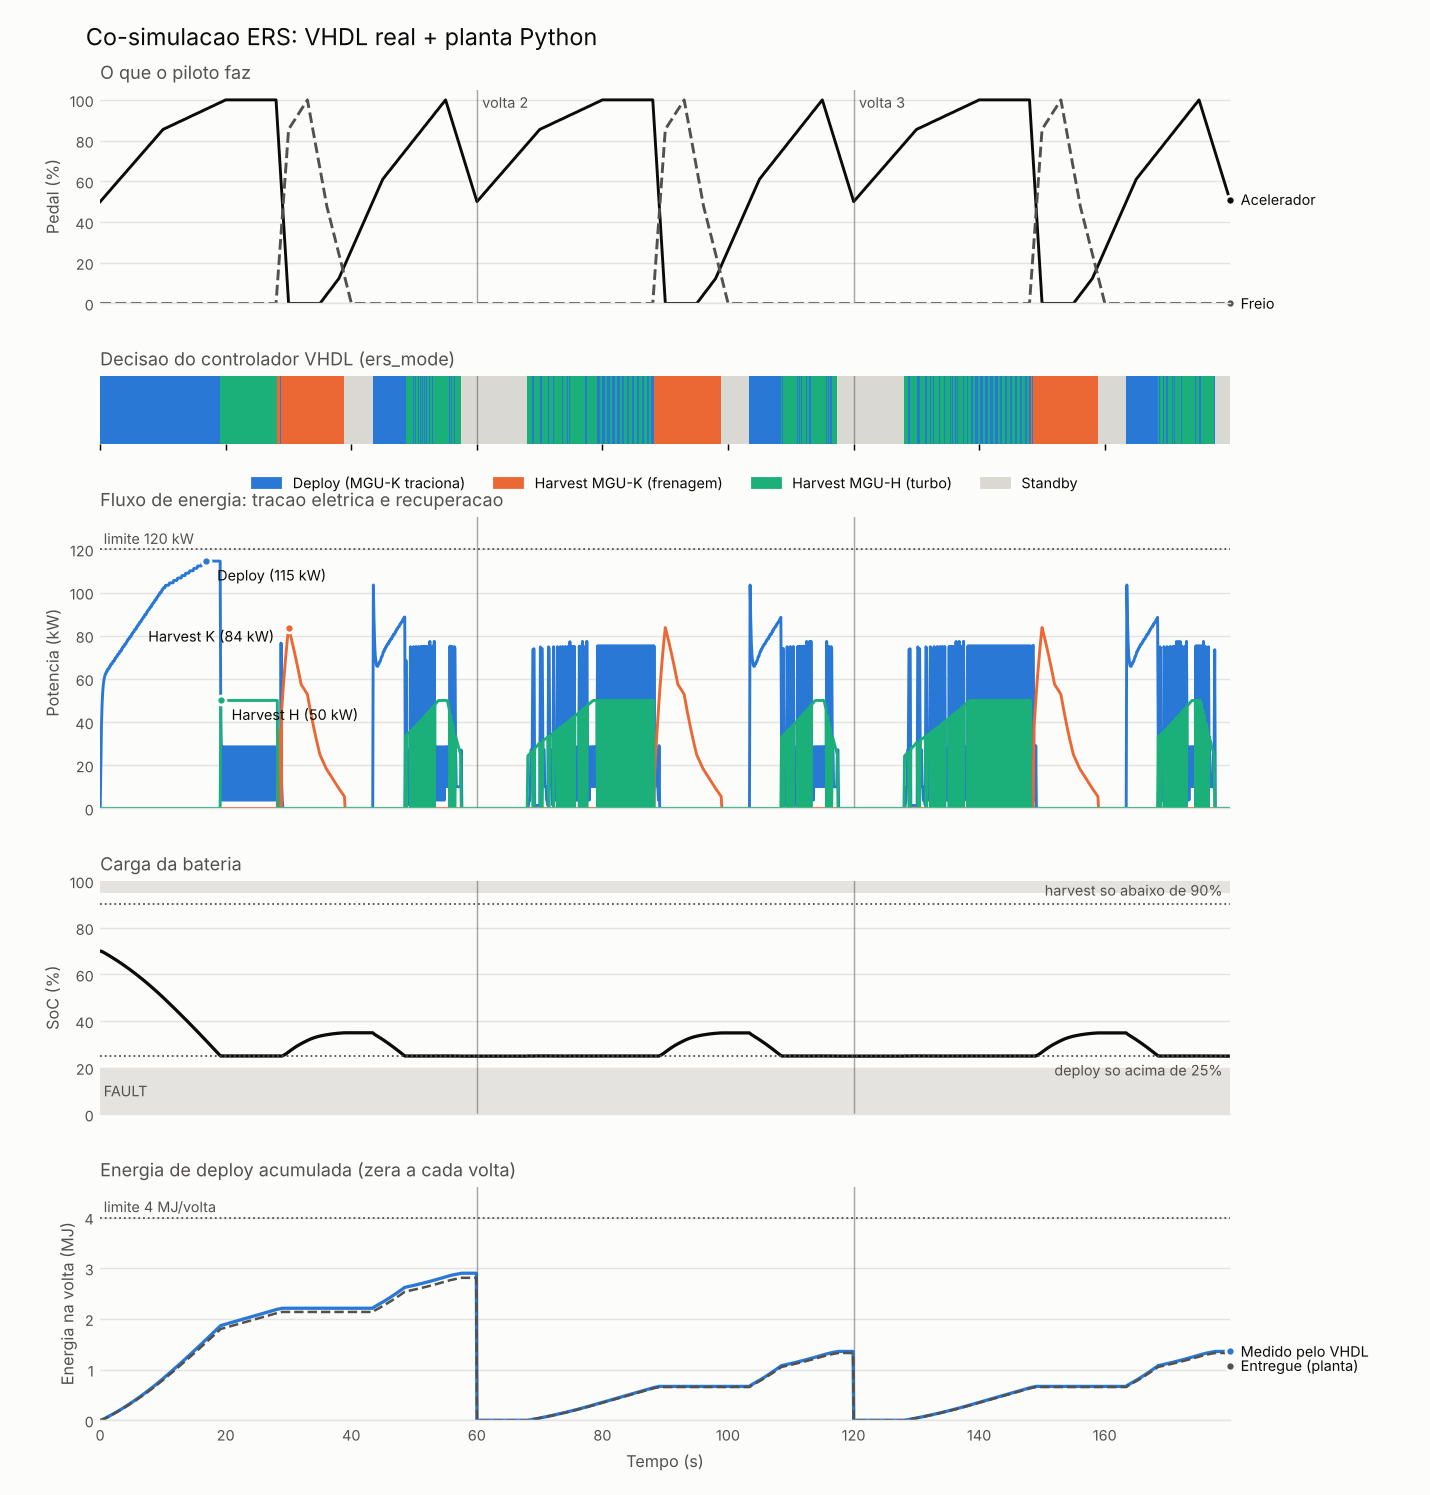
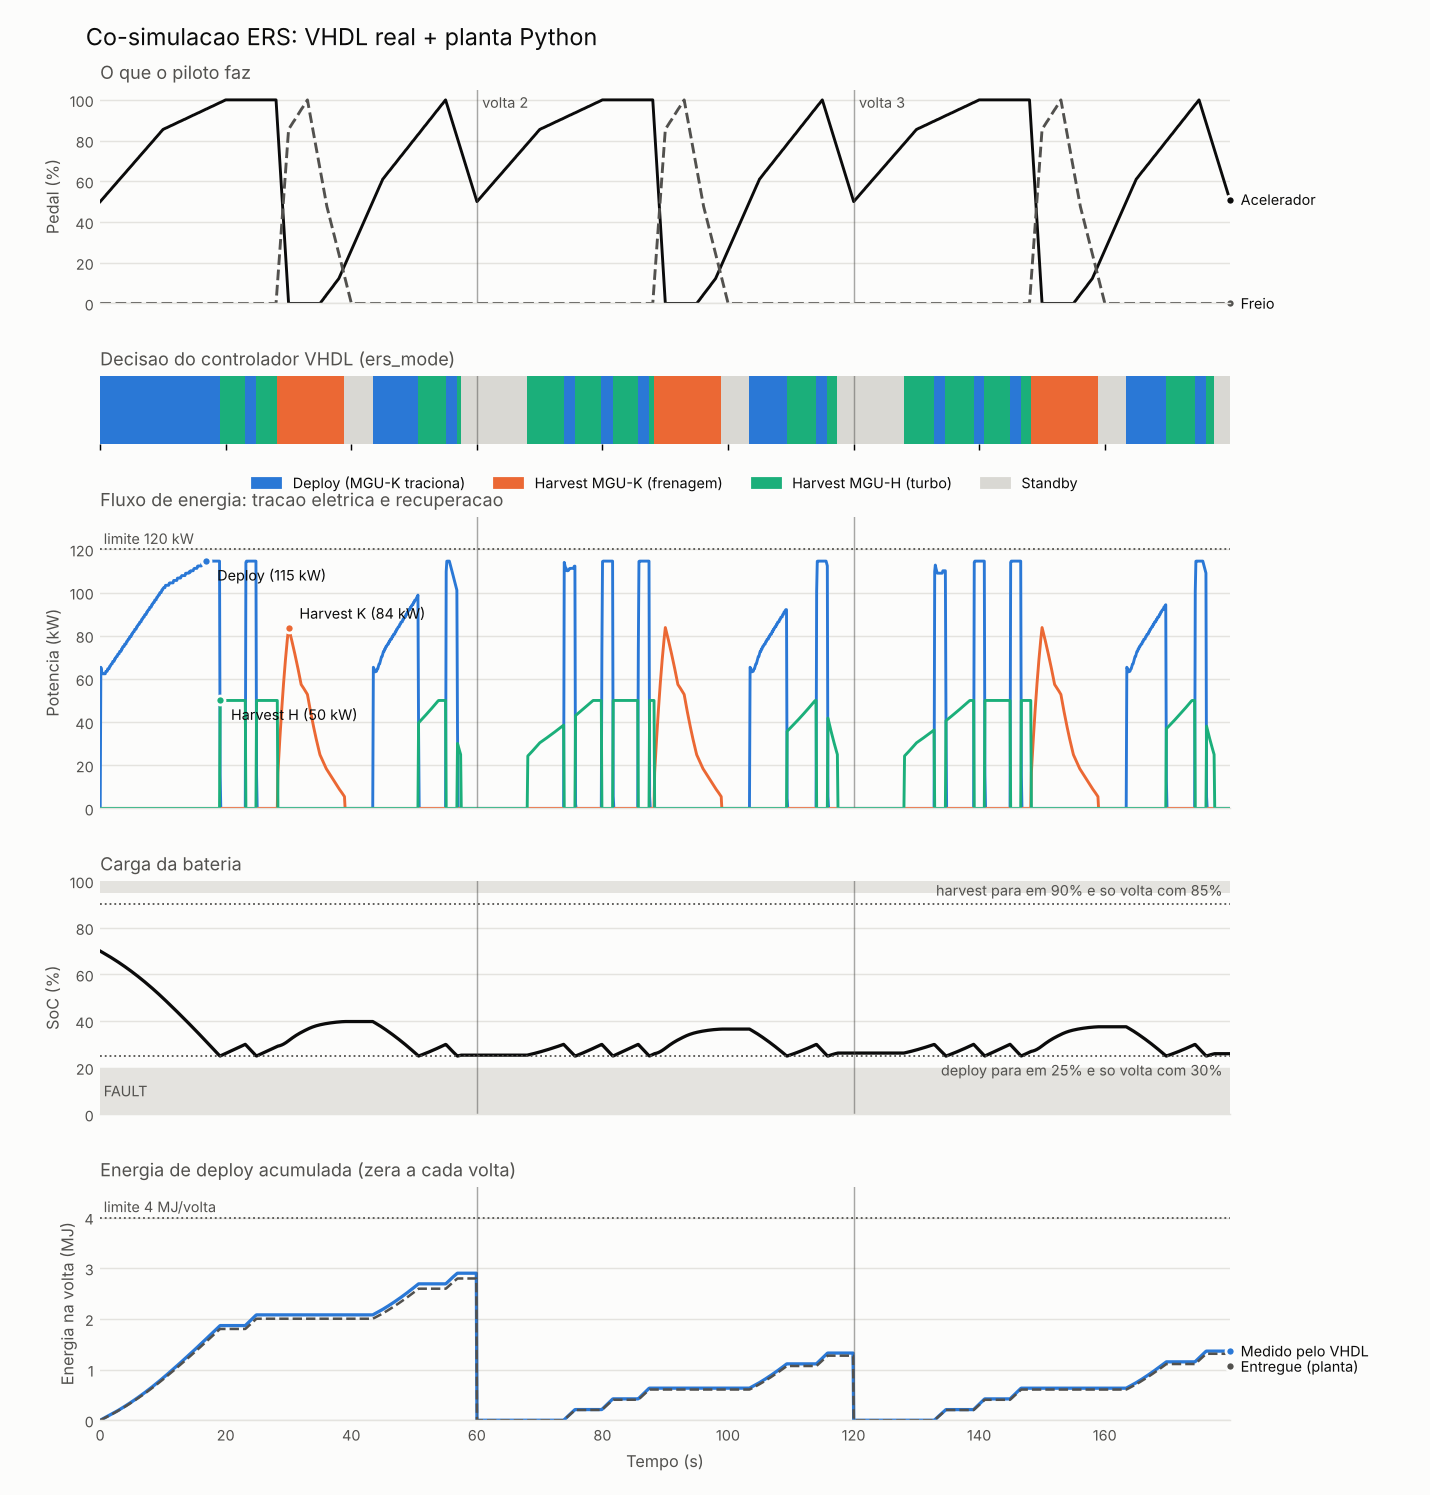
FSM com histerese de SoC e PI com partida sem salto
Dois problemas que so apareceram com a malha fechada da co-simulacao:

ers_fsm: sem histerese, com SoC em 25% a FSM alternava entre DEPLOYING e
HARVESTING_H a cada passo (2131 trocas de modo em 3 voltas). Agora o
deploy para em 25% e so volta com 30%; o harvest para em 90% e so volta
com 85% (flags registradas, bloqueio imediato). 39 trocas em 3 voltas.

pi_controller: o integrador guardava o valor da ultima habilitacao e a
potencia saltava ate 46 kW acima do pedido ao reentrar em deploy. Agora,
na borda de enable, o integrador e pre-carregado com o setpoint
(feedforward). Excesso maximo: 6.3 kW (overshoot transitorio de ~5%).

Testes:
- tb_ers_fsm T13-T14 (histerese) e tb_pi_controller T3c/T8 (partida sem
  salto); todos falham com o RTL anterior.
- Co-simulacao: limites de trocas de modo e de excesso de potencia na
  corrida de 3 voltas.
- Documentacao, grafico e tabelas de resultados atualizados.

Claude-Session: https://claude.ai/code/session_01DrWsH8PHCMZe6wjrC1dUhH

diff --git a/cosim/test_ers_cosim.py b/cosim/test_ers_cosim.py
@@ -61,7 +61,10 @@ class CosimRun:
     rows: list = field(default_factory=list)
     laps: list = field(default_factory=list)
     modes_seen: set = field(default_factory=set)
+    mode_changes: int = 0         # trocas de ers_mode (amostradas a cada passo)
+    max_excess_kw: float = 0.0    # maior (potencia entregue - setpoint) em deploy
     t: float = 0.0
+    _last_mode: int | None = None
 
     async def reset(self) -> None:
         dut = self.dut
@@ -114,7 +117,14 @@ class CosimRun:
             duty_k = dut.duty_k_cnt.value.to_unsigned() / PWM_COUNTS
             duty_h = dut.duty_h_cnt.value.to_unsigned() / PWM_COUNTS
             self.modes_seen.add(mode)
+            if self._last_mode is not None and mode != self._last_mode:
+                self.mode_changes += 1
+            self._last_mode = mode
             self.plant.step(dt, inp, mode, duty_k, duty_h)
+            if mode == DEPLOYING:
+                setpoint_w = inp.throttle_adc * 16 / 65535 * P_SCALE_W
+                self.max_excess_kw = max(
+                    self.max_excess_kw, (self.plant.p_deploy - setpoint_w) / 1e3)
 
             if k % log_every == 0:
                 self.rows.append({
@@ -245,9 +255,19 @@ async def test_race_3_laps(dut):
     dut._log.info("SoC min/max: %.1f%% / %.1f%%, deploy pico %.1f kW, modos: %s",
                   min(socs), max(socs), p_max,
                   sorted(MODE_NAMES[m] for m in run.modes_seen))
+    dut._log.info("Trocas de modo: %d; maior excesso de potencia sobre o "
+                  "setpoint: %.1f kW", run.mode_changes, run.max_excess_kw)
 
     assert FAULT not in run.modes_seen, "controlador entrou em FAULT"
     assert {DEPLOYING, HARVESTING_K, HARVESTING_H} <= run.modes_seen
     assert all(lap.e_deploy_mj <= 4.0 for lap in run.laps), "excedeu 4 MJ/volta"
     assert p_max <= 120.0, f"potencia de deploy acima de 120 kW: {p_max}"
     assert 20.0 <= min(socs) and max(socs) <= 95.0, "SoC fora de [20%, 95%]"
+    # Histerese de SoC: sem oscilacao rapida entre deploy e harvest
+    assert run.mode_changes <= 60, (
+        f"FSM oscilando: {run.mode_changes} trocas de modo em 3 voltas")
+    # Partida sem salto do PI: ao entrar em deploy a potencia nao pode saltar
+    # acima do pedido. Sobra um overshoot transitorio de ~5% (atraso do
+    # inversor + quantizacao do PWM); sem a pre-carga o salto era de ~43 kW.
+    assert run.max_excess_kw <= 10.0, (
+        f"pico de potencia {run.max_excess_kw:.1f} kW acima do setpoint")

diff --git a/cosim/plot_results.py b/cosim/plot_results.py
@@ -131,20 +131,20 @@ def plot(cols: dict, out: Path, title: str) -> None:
     ax = axes[2]
     style_axis(ax, "Potencia (kW)")
     # (coluna, cor, nome, deslocamento do rotulo de pico, alinhamento)
-    series = [("p_deploy_kw", DEPLOY, "Deploy", (6, -3), "left"),
-              ("p_harv_k_kw", HARV_K, "Harvest K", (-8, 0), "right"),
-              ("p_harv_h_kw", HARV_H, "Harvest H", (6, -3), "left")]
+    series = [("p_deploy_kw", DEPLOY, "Deploy", (6, -3), "left", "top"),
+              ("p_harv_k_kw", HARV_K, "Harvest K", (6, 3), "left", "bottom"),
+              ("p_harv_h_kw", HARV_H, "Harvest H", (6, -3), "left", "top")]
     for key, color, *_ in series:
         ax.plot(t, cols[key], color=color, linewidth=1.6)
     ax.axhline(120, color=INK_2, linewidth=1, linestyle=":")
     ax.annotate("limite 120 kW", (0, 120), xytext=(2, 3),
                 textcoords="offset points", fontsize=8, color=INK_2)
-    for key, color, name, offset, ha in series:
+    for key, color, name, offset, ha, va in series:
         # Rotulo no pico de cada serie
         i = max(range(len(t)), key=lambda j: cols[key][j])
         ax.annotate(f"{name} ({cols[key][i]:.0f} kW)", (t[i], cols[key][i]),
                     xytext=offset, textcoords="offset points", fontsize=8,
-                    ha=ha, va="top", color=INK)
+                    ha=ha, va=va, color=INK)
         ax.plot([t[i]], [cols[key][i]], "o", color=color, markersize=5,
                 markeredgecolor=SURFACE, markeredgewidth=1.5)
     ax.set_ylim(0, 135)
@@ -157,8 +157,9 @@ def plot(cols: dict, out: Path, title: str) -> None:
     ax.axhspan(0, 20, color=GRID, linewidth=0)
     ax.axhspan(95, 100, color=GRID, linewidth=0)
     ax.plot(t, cols["soc_pct"], color=INK, linewidth=1.8)
-    for level, text, dy, va in [(25, "deploy so acima de 25%", -3, "top"),
-                                (90, "harvest so abaixo de 90%", 3, "bottom")]:
+    for level, text, dy, va in [
+            (25, "deploy para em 25% e so volta com 30%", -3, "top"),
+            (90, "harvest para em 90% e so volta com 85%", 3, "bottom")]:
         ax.axhline(level, color=INK_2, linewidth=1, linestyle=":")
         ax.annotate(text, (t_end, level), xytext=(-4, dy), ha="right", va=va,
                     textcoords="offset points", fontsize=8, color=INK_2)

diff --git a/docs/06_cosimulacao_python.md b/docs/06_cosimulacao_python.md
@@ -75,7 +75,7 @@ Mesmas equacoes e parametros do capitulo 2, com tres diferencas:
 |-------|---------|----------|
 | `test_pi_tracking` | Acelerador constante em 73% | A potencia entregue converge para 87.9 kW (alvo = 73% de 120 kW) com erro < 2%, e o duty fica acima de 73% (compensando a queda de tensao). |
 | `test_lap_energy_limit` | Acelerador 100% continuo; bateria grande para isolar o limite do regulamento | O VHDL trava em 4.000 MJ e corta o deploy entre 32 e 36 s; a energia real da volta fica entre 3.8 e 4.0 MJ; o deploy volta apos `lap_reset`. |
-| `test_race_3_laps` | Perfil de volta padrao, 3 voltas | Sem FAULT; passa por deploy, harvest K e harvest H; deploy <= 4 MJ/volta; potencia <= 120 kW; SoC em [20%, 95%]. |
+| `test_race_3_laps` | Perfil de volta padrao, 3 voltas | Sem FAULT; passa por deploy, harvest K e harvest H; deploy <= 4 MJ/volta; potencia <= 120 kW; SoC em [20%, 95%]; no maximo 60 trocas de modo (sem oscilacao); potencia nunca mais de 10 kW acima do pedido (partida do PI sem salto). |
 
 ## 6.6 Resultados
 
@@ -83,15 +83,17 @@ Corrida de 3 voltas com o controlador VHDL real:
 
 | Volta | Deploy entregue | Harvest | Energia medida pelo VHDL | SoC no fim |
 |-------|-----------------|---------|--------------------------|------------|
-| 1 | 2.81 MJ | 1.01 MJ | 2.90 MJ | 25.0% |
-| 2 | 1.33 MJ | 1.33 MJ | 1.36 MJ | 25.0% |
-| 3 | 1.33 MJ | 1.33 MJ | 1.36 MJ | 25.0% |
+| 1 | 2.80 MJ | 1.01 MJ | 2.90 MJ | 25.4% |
+| 2 | 1.27 MJ | 1.31 MJ | 1.33 MJ | 26.3% |
+| 3 | 1.31 MJ | 1.30 MJ | 1.36 MJ | 26.0% |
 
 Outros resultados:
 
-- PI: rastreia 87.9 kW e entra na faixa de 2% em 0.74 s.
+- PI: rastreia 87.9 kW e entra na faixa de 2% em 0.44 s.
+- Trocas de modo em 3 voltas: 39 (eram 2131 antes da histerese).
+- Maior excesso de potencia sobre o pedido: 6.3 kW (era 46.1 kW antes da partida sem salto).
 - Deploy pico: 114.5 kW. A queda de tensao impede chegar a 120 kW mesmo com duty de 100%.
-- Teste de limite: corte em 33.5 s, com 3.82 MJ entregues e 4.00 MJ contabilizados.
+- Teste de limite: corte em 33.4 s, com 3.82 MJ entregues e 4.00 MJ contabilizados.
 
 ![Co-simulacao de 3 voltas](img/cosim_race.png)
 
@@ -99,13 +101,13 @@ Outros resultados:
 
 1. **O carro fica "sem bateria" a partir da volta 2.** A primeira volta gasta a carga inicial (70% -> 25%). Depois disso o controlador so consegue gastar o que recupera (~1.3 MJ por volta), bem abaixo do limite de 4 MJ. O resultado anterior (3.82 MJ/volta) vinha do placeholder, cuja planta recuperava energia mesmo quando a FSM nao mandava.
 
-2. **A FSM oscila no limite de SoC (chattering).** Com o SoC parado em 25%, o controlador alterna entre `DEPLOYING` e `HARVESTING_H` a cada poucos passos: o deploy baixa o SoC para menos de 25%, o harvest sobe de volta, e o ciclo se repete (faixas listradas no grafico). Os limiares de SoC nao tem histerese.
+2. **A FSM oscilava no limite de SoC (corrigido).** Com o SoC parado em 25%, o controlador alternava entre `DEPLOYING` e `HARVESTING_H` a cada passo (2131 trocas em 3 voltas): o deploy baixava o SoC para menos de 25% e o harvest subia de volta. **Correcao:** histerese em `ers_fsm.vhd`. O deploy para em 25% e so volta com 30%; o harvest para em 90% e so volta com 85%. Agora o SoC oscila devagar entre 25% e 30%: o MGU-H recarrega ~5% e o MGU-K gasta esses 5% em potencia cheia (39 trocas em 3 voltas).
 
-3. **Pico de potencia ao reentrar em deploy.** O PI mantem o integrador quando e desabilitado. Ao voltar para `DEPLOYING`, ele parte do valor antigo e a potencia da um salto (picos de ~100 kW em t = 43, 103 e 163 s) antes de convergir.
+3. **Pico de potencia ao reentrar em deploy (corrigido).** O PI mantinha o integrador quando desabilitado; ao voltar para `DEPLOYING`, partia do valor antigo e a potencia saltava ate 46 kW acima do pedido. **Correcao:** em `pi_controller.vhd`, na borda de habilitacao o integrador e pre-carregado com o setpoint (feedforward). A saida ja comeca na potencia pedida e o PI so corrige a diferenca. Sobra um overshoot transitorio de ~5% (atraso do inversor e quantizacao do PWM).
 
 4. **O MGU-H nunca recupera durante o deploy.** Os estados da FSM sao exclusivos. No ERS real (regras 2014-2025), o MGU-H podia alimentar o MGU-K diretamente durante a aceleracao.
 
-Os itens 2 e 3 sao comportamentos do RTL que os testbenches isolados nao mostravam. Ficam como proximos passos de projeto.
+Os itens 2 e 3 eram comportamentos do RTL que os testbenches isolados nao mostravam; so apareceram com a malha fechada. Agora ha testes especificos para eles tanto nos testbenches (`tb_ers_fsm` T13-T14, `tb_pi_controller` T3c e T8) quanto na co-simulacao.
 
 ## 6.7 Como executar
 

diff --git a/docs/03_arquitetura_vhdl.md b/docs/03_arquitetura_vhdl.md
@@ -69,9 +69,20 @@
 | Condicao | Expressao |
 |----------|-----------|
 | `fault_cond` | `soc < 819 (20%)` OR `soc > 3890 (95%)` |
-| `deploy_cond` | `throttle > 2048` AND `soc > 1024 (25%)` AND `energy < 1024000` |
-| `harvest_k_cond` | `brake_pres > 512` AND `soc < 3685 (90%)` |
-| `harvest_h_cond` | `turbo_rpm > 40000` AND `soc < 3685 (90%)` |
+| `deploy_cond` | `throttle > 2048` AND `deploy_soc_ok` AND `energy < 1024000` |
+| `harvest_k_cond` | `brake_pres > 512` AND `harvest_soc_ok` |
+| `harvest_h_cond` | `turbo_rpm > 40000` AND `harvest_soc_ok` |
+
+### Histerese de SoC:
+
+Sem histerese, com o SoC no limite de 25% a FSM alternava entre `DEPLOYING` e `HARVESTING_H` a cada poucos ms: o deploy baixava o SoC abaixo do limite e o harvest subia de volta. Agora cada permissao tem dois limiares e uma flag registrada:
+
+| Flag | Bloqueia quando | Libera de novo quando | Entre os limiares |
+|------|-----------------|-----------------------|-------------------|
+| `deploy_soc_ok` | `soc <= 1024` (25%) | `soc >= 1229` (30%) | mantem a ultima decisao |
+| `harvest_soc_ok` | `soc >= 3685` (90%) | `soc <= 3481` (85%) | mantem a ultima decisao |
+
+O bloqueio e imediato (combinacional); apos o reset as duas flags comecam bloqueadas ate o SoC passar o limiar de liberacao.
 
 ### Saidas por estado:
 
@@ -121,9 +132,13 @@ O acumulador integral e limitado por clamping a faixa da saida, na escala Q16:
 
 Se `i_accum + KI*error` exceder esses limites, o acumulador trava no limite. Isso evita que o integrador "carregue" excessivamente durante saturacao: quando o erro inverte de sinal, o termo P negativo tira a saida da saturacao ja no ciclo seguinte (verificado em `tb_pi_controller` T7).
 
+### Partida sem salto (bumpless):
+
+No primeiro ciclo apos `enable` subir, o integrador e pre-carregado com o setpoint (feedforward): `i_accum = setpoint << 16`. A saida ja comeca na potencia pedida e o PI so corrige a diferenca (por exemplo, a queda de tensao da bateria). Antes, o integrador guardava o valor da ultima habilitacao e a potencia saltava ate ~46 kW acima do pedido ao reentrar em deploy (visto na co-simulacao, capitulo 6). Verificado em `tb_pi_controller` T3c e T8.
+
 ### Resposta esperada:
 
-Com KP=0.015625 e KI=0.000977, para um degrau de erro=5000:
+Com KP=0.015625 e KI=0.000977, para um degrau de erro=5000 (sem contar a pre-carga do setpoint):
 - P imediato: 0.015625 * 5000 = 78.125
 - I apos 10 ciclos: 0.000977 * 5000 * 10 = 48.8
 - Total apos 10 ciclos: ~127 (saida deve ser > 50, criterio de aceitacao)
@@ -229,7 +244,7 @@ A latencia total do pipeline (entrada -> saida PWM) e de 3 ciclos de clock (60 n
 
 ## 3.8 Testbenches
 
-### tb_ers_fsm — 12 testes:
+### tb_ers_fsm — 14 testes:
 
 | # | Teste | Resultado esperado |
 |---|-------|--------------------|
@@ -245,18 +260,21 @@ A latencia total do pipeline (entrada -> saida PWM) e de 3 ciclos de clock (60 n
 | T10 | Energia excedida | Nao entra DEPLOYING |
 | T11 | SoC > 90% + freio | Nao entra HARVESTING |
 | T12 | Transicao HARVEST_K -> HARVEST_H | HARVESTING_H (010) |
+| T13 | Histerese de deploy | Para em 25%, segue bloqueado em 27%, libera em 30%, ja liberado segue em 27% |
+| T14 | Histerese de harvest | Para em 90%, segue bloqueado em 88%, libera em 85% |
 
-### tb_pi_controller — 7 testes:
+### tb_pi_controller — 8 testes:
 
 | # | Teste | Resultado esperado |
 |---|-------|--------------------|
 | T1 | Reset | duty = 0 |
 | T2 | Desabilitado | duty = 0 |
-| T3 | Degrau positivo | duty cresce (> 0 apos 1 ciclo, > 50 apos 10) |
+| T3 | Degrau positivo | parte do setpoint (~10078) no 1o ciclo e cresce com o integrador |
 | T4 | Erro zero | duty estabiliza |
 | T5 | Erro negativo | duty = 0 (saturacao inferior) |
 | T6 | Erro muito grande | perto de saturar apos 1000 ciclos; duty = 65535 apos 1200 |
 | T7 | Anti-windup | Apos 5000 ciclos saturado, sai da saturacao em 2 ciclos ao inverter o erro e zera apos ~1200 |
+| T8 | Reentrada sem salto | Integrador saturado, desabilita e reabilita com setpoint 20000: saida parte de ~20000, nao de 65535 |
 
 ### tb_power_arbiter — 7 testes:
 

diff --git a/README.md b/README.md
@@ -126,11 +126,11 @@ Veja [docs/05_resultados.md](docs/05_resultados.md) e [docs/06_cosimulacao_pytho
 
 | Volta | Deploy entregue | Harvest | SoC no fim |
 |-------|-----------------|---------|------------|
-| 1 | 2.81 MJ | 1.01 MJ | 25.0% |
-| 2 | 1.33 MJ | 1.33 MJ | 25.0% |
-| 3 | 1.33 MJ | 1.33 MJ | 25.0% |
+| 1 | 2.80 MJ | 1.01 MJ | 25.4% |
+| 2 | 1.27 MJ | 1.31 MJ | 26.3% |
+| 3 | 1.31 MJ | 1.30 MJ | 26.0% |
 
-O regulamento é respeitado (sem FAULT, deploy ≤ 4 MJ/volta, ≤ 120 kW, SoC em [20%, 95%]), mas a partir da volta 2 o carro só gasta o que recupera. A co-simulação também revelou oscilação da FSM no limite de SoC de 25%. Detalhes em [docs/06_cosimulacao_python.md](docs/06_cosimulacao_python.md).
+O regulamento é respeitado (sem FAULT, deploy ≤ 4 MJ/volta, ≤ 120 kW, SoC em [20%, 95%]), mas a partir da volta 2 o carro só gasta o que recupera. A co-simulação revelou dois problemas do controlador, já corrigidos: oscilação da FSM no limite de SoC (agora com histerese 25%/30%) e salto de potência ao reentrar em deploy (agora o PI parte do setpoint). Detalhes em [docs/06_cosimulacao_python.md](docs/06_cosimulacao_python.md).
 
 ![Co-simulação de 3 voltas](docs/img/cosim_race.png)
 
